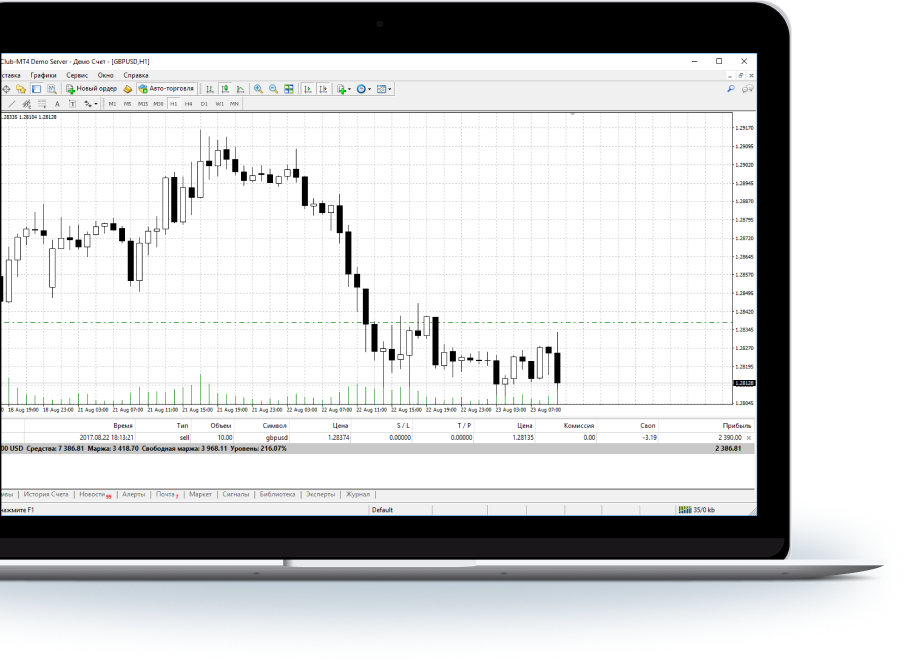
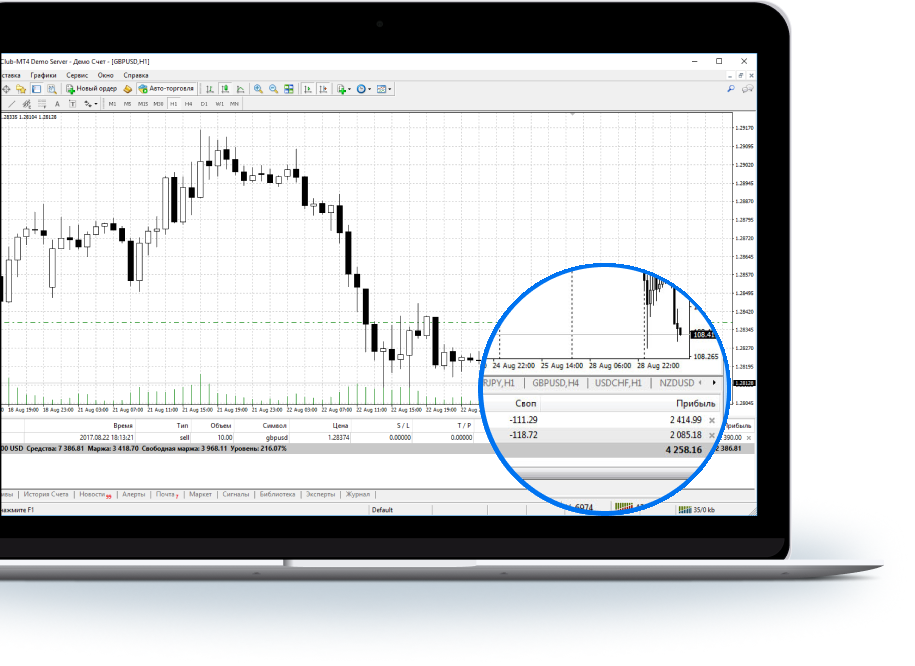
feat: 1360 and 1000 design

Changed region(s): [[0.5202, 0.3904, 0.8262, 0.7808]]

diff --git a/style.scss b/style.scss
@@ -2,9 +2,9 @@ body {
  margin: 0;
  padding: 0;
  max-width: 1920px;
- max-height: 1040px;
-//  margin-left: auto;
-//  margin-right: auto;
+//  max-height: 1040px;
+ margin-left: auto;
+ margin-right: auto;
 }
 $orange:#FF7302;
 $darkblue:#2B2B51;
@@ -15,7 +15,11 @@ $blue:#0073F0;
     align-items: center;    
 }
 
-.menu {
+h3 {
+    font-size: 3em;
+    color: $orange;
+}
+.menu, .footer {
     height: 6.5em;    
 }
 @keyframes leftShift {
@@ -41,16 +45,7 @@ $blue:#0073F0;
         background: url('./assets/mac-sect1.png') no-repeat;
         background-size: contain;
         animation-name: leftShift;
-        animation-duration: 1s;  
-        .big {
-            width: 50%;
-            height: 19em;
-            background: url('./assets/sect1-zoom.png') no-repeat;
-            background-size: contain; 
-            align-self: flex-end;
-            margin-left: 49%;
-            margin-bottom: 13%;
-        }      
+        animation-duration: 1s;             
     }
     .info {        
         width: 32%;
@@ -90,11 +85,12 @@ form {
     .select {
         width: 40%;
         margin-left: 5%;
-        height: 2em;
+        height: 1em;
         select {
             width: 100%;
             height: 2em; 
-            margin-top: 3%;       
+            margin-top: 3%;
+            font-size: 1.2em;       
             border: none;
             border-bottom: 1px solid gray; 
                             
@@ -113,10 +109,11 @@ form {
             border: none;        
             margin-left: 5%; 
             margin-top: 3%; 
-            font-weight: 100;        
+            font-weight: 100;                   
             input {
                 width: 100%;
                 height: 2.5em;
+                font-size: 1.2em; 
                 border: none;
                 border-bottom: 1px solid gray;            
             }  
@@ -130,25 +127,26 @@ form {
         }
         .country {
             position: absolute;
-            top: 0.2em; 
+            top: 1em; 
             left: 4.5em;
         }
         .name {
             position: absolute;
-            top: 0.2em;       
+            top: 1em;       
         }
         .phone {
             position: absolute;
-            top: 4.5em;
+            top: 5.5em;
         }
         .email {
             position: absolute;
-            top: 4.5em;
+            top: 5.5em;
         }
         
         .checkbox {
             order:5;
             width: 40%;
+            font-size: 1.2em;
             margin-top: 3%; 
             margin-left: 5%;
             a {
@@ -161,14 +159,46 @@ form {
 }
 input[type="submit"] {
     width: 40%;
+    height: 3em;
     color: white;
     background: $blue;
     border: none;
     border-radius: 4em;
-    height: 3em; 
+    font-size: 1.2em; 
     margin-left: 5%; 
     margin-top: 3%;   
     &:hover {
         background: linear-gradient(-45deg, $blue, $darkblue)
     }
+}
+@media only screen and (max-width:1360px){
+    .gradient{
+        flex-direction: column-reverse;        
+        .laptop {
+            width: 90%;
+            margin-top: 10%;
+            animation: none;                     
+            background-image: url('./assets/Ноут.png');
+        }
+        .info {
+            width: 70%;   
+            margin: 0;
+            align-self: initial;         
+            animation: none;
+            h1, h2, p {
+                text-align: center;
+            }
+        }
+    }
+}
+@media only screen and (max-width:768px){
+    // .gradient {
+
+    // }
+}
+@media only screen and (max-width:480px){
+    
+}
+@media only screen and (max-width:320px){
+    
 }

diff --git a/style.css b/style.css
@@ -1,11 +1,18 @@
+@charset "UTF-8";
 body {
   margin: 0;
   padding: 0;
   max-width: 1920px;
-  max-height: 1040px;
+  margin-left: auto;
+  margin-right: auto;
 }
 
-.menu {
+h3 {
+  font-size: 3em;
+  color: #FF7302;
+}
+
+.menu, .footer {
   height: 6.5em;
 }
 
@@ -93,17 +100,6 @@ body {
           animation-duration: 1s;
 }
 
-.gradient .laptop .big {
-  width: 50%;
-  height: 19em;
-  background: url("./assets/sect1-zoom.png") no-repeat;
-  background-size: contain;
-  -ms-flex-item-align: end;
-      align-self: flex-end;
-  margin-left: 49%;
-  margin-bottom: 13%;
-}
-
 .gradient .info {
   width: 32%;
   margin-right: 20%;
@@ -163,13 +159,14 @@ form fieldset {
 form fieldset .select {
   width: 40%;
   margin-left: 5%;
-  height: 2em;
+  height: 1em;
 }
 
 form fieldset .select select {
   width: 100%;
   height: 2em;
   margin-top: 3%;
+  font-size: 1.2em;
   border: none;
   border-bottom: 1px solid gray;
 }
@@ -191,6 +188,7 @@ form fieldset .input {
 form fieldset .input input {
   width: 100%;
   height: 2.5em;
+  font-size: 1.2em;
   border: none;
   border-bottom: 1px solid gray;
 }
@@ -202,23 +200,23 @@ form fieldset .input:hover .phone, form fieldset .input:hover .name, form fields
 
 form fieldset .country {
   position: absolute;
-  top: 0.2em;
+  top: 1em;
   left: 4.5em;
 }
 
 form fieldset .name {
   position: absolute;
-  top: 0.2em;
+  top: 1em;
 }
 
 form fieldset .phone {
   position: absolute;
-  top: 4.5em;
+  top: 5.5em;
 }
 
 form fieldset .email {
   position: absolute;
-  top: 4.5em;
+  top: 5.5em;
 }
 
 form fieldset .checkbox {
@@ -226,6 +224,7 @@ form fieldset .checkbox {
       -ms-flex-order: 5;
           order: 5;
   width: 40%;
+  font-size: 1.2em;
   margin-top: 3%;
   margin-left: 5%;
 }
@@ -237,16 +236,45 @@ form fieldset .checkbox a {
 
 input[type="submit"] {
   width: 40%;
+  height: 3em;
   color: white;
   background: #0073F0;
   border: none;
   border-radius: 4em;
-  height: 3em;
+  font-size: 1.2em;
   margin-left: 5%;
   margin-top: 3%;
 }
 
 input[type="submit"]:hover {
   background: linear-gradient(-45deg, #0073F0, #2B2B51);
+}
+
+@media only screen and (max-width: 1360px) {
+  .gradient {
+    -webkit-box-orient: vertical;
+    -webkit-box-direction: reverse;
+        -ms-flex-direction: column-reverse;
+            flex-direction: column-reverse;
+  }
+  .gradient .laptop {
+    width: 90%;
+    margin-top: 10%;
+    -webkit-animation: none;
+            animation: none;
+    background-image: url("./assets/Ноут.png");
+  }
+  .gradient .info {
+    width: 70%;
+    margin: 0;
+    -ms-flex-item-align: initial;
+        -ms-grid-row-align: initial;
+        align-self: initial;
+    -webkit-animation: none;
+            animation: none;
+  }
+  .gradient .info h1, .gradient .info h2, .gradient .info p {
+    text-align: center;
+  }
 }
 /*# sourceMappingURL=style.css.map */

diff --git a/index.html b/index.html
@@ -10,8 +10,7 @@
 <body>
     <nav class="menu"></nav>
     <div class="gradient">
-        <div class="laptop">
-            <div class="big"></div>
+        <div class="laptop">            
         </div>
         <div class="info">
             <h1>Такой заголовок</h1>
@@ -20,13 +19,13 @@
                 Сайт рыбатекст поможет дизайнеру, <b>верстальщику</b>, вебмастеру сгенерировать несколько абзацев более менее осмысленного текста рыбы на русском языке, а начинающему <b>оратору отточить навык</b>
             </p>
             <form action="form-field">
-                <fieldset>
+                <fieldset id="form">
                     <div class="select">
                     <label for="country"><span class="country">Ваша страна</span></label>
                     <select name="country" id="country">
                         <option value="Беларусь">Беларусь</option>
-                        <option value="Беларусь">Беларусь</option>
-                        <option value="Беларусь">Беларусь</option>                        
+                        <option value="Россия">Россия</option>
+                        <option value="Казахстан">Казахстан</option>                        
                     </select>
                     </div>
                     <div class="input">
@@ -42,10 +41,12 @@
                         <input type="email" id='email' pattern="[a-z0-9._%+-]+@[a-z0-9.-]+\.[a-z]{2,}$" required>
                     </div>              
                     <div class="checkbox"><input type="checkbox" name="" id="checkbox" checked>Договор <a>офферты</a></div>
-                    <input type="submit" value="ЗАПИСАТЬСЯ">
+                    <input type="submit" value="ЗАПИСАТЬСЯ" id='btn'>
                 </fieldset>
             </form>
         </div>
     </div>
+    <footer class="footer"></footer>
+    <script src="./index.js"></script>
 </body>
 </html>

diff --git a/index.js b/index.js
@@ -1,0 +1,6 @@
+let form = document.getElementById('form');
+let btn = document.getElementById('btn');
+btn.onclick = function(event) {
+    event.preventDefault();
+    form.innerHTML=`<h3>Спасибо за заявку</h3> <p style="font-size:0.8em;"> В течение часа с вами свяжется наш специалист</p>`
+}
